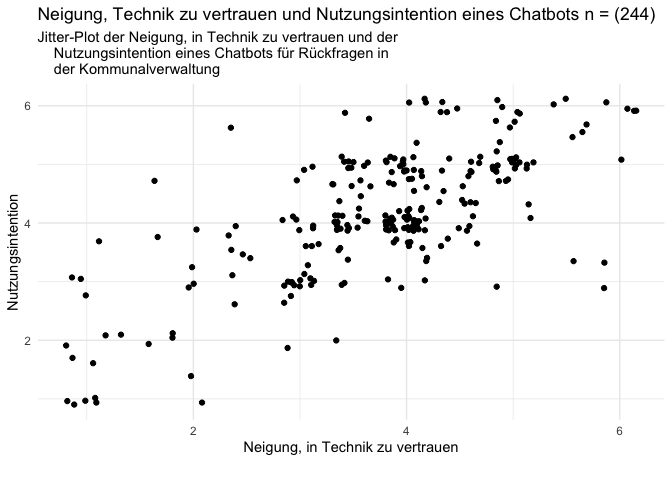
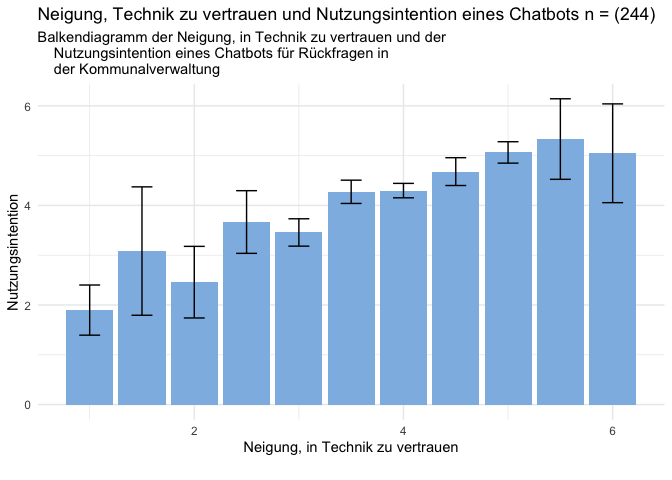
Diagramme

diff --git a/Readme.md b/Readme.md
@@ -87,6 +87,13 @@ höhere Nutzungsintention bei einem Chatbot für Rückfragen in der
 Kommunalverwaltung als Personen mit einer geringen Neigung, Technik zu
 vertrauen. (Unverbundener T-Test)
 
+    ## Warning: The following aesthetics were dropped during statistical transformation: ymin
+    ## and ymax.
+    ## ℹ This can happen when ggplot fails to infer the correct grouping structure in
+    ##   the data.
+    ## ℹ Did you forget to specify a `group` aesthetic or to convert a numerical
+    ##   variable into a factor?
+
 ![](Readme_files/figure-markdown_strict/unnamed-chunk-11-1.png)
 
 *H7* Die Nutzungsintention von BürgerInnen bei einem Chatbot für
@@ -94,6 +101,13 @@ Rückfragen in der Kommunalverwaltung unterscheidet sich von der
 Nutzungsintention von BürgerInnen bei einem Chatbot für die
 Formularausfüllung in der Kommunalverwaltung. \[Within-subject-design
 (Verbundener T- Test)\]
+
+    ## Warning: The following aesthetics were dropped during statistical transformation: ymin
+    ## and ymax.
+    ## ℹ This can happen when ggplot fails to infer the correct grouping structure in
+    ##   the data.
+    ## ℹ Did you forget to specify a `group` aesthetic or to convert a numerical
+    ##   variable into a factor?
 
 ![](Readme_files/figure-markdown_strict/unnamed-chunk-13-1.png)
 
@@ -103,12 +117,33 @@ Formularausfüllung in der Kommunalverwaltung. \[Within-subject-design
 Vertrauen von Bürger\*innen in einen KI-gestützten Dienst für
 Gebührenbescheide in der Kommunalverwaltung. (Einfaktorielle MANOVA)
 
-![](Readme_files/figure-markdown_strict/unnamed-chunk-15-1.png)
-![](Readme_files/figure-markdown_strict/unnamed-chunk-16-1.png)
+    ## 
+    ##  MANCOVA
+    ## 
+    ##  Multivariate Tests                                                                     
+    ##  ────────────────────────────────────────────────────────────────────────────────────── 
+    ##                                    value         F            df1    df2    p           
+    ##  ────────────────────────────────────────────────────────────────────────────────────── 
+    ##    Gender    Pillai's Trace        0.02428113    0.9626985      6    470    0.4499818   
+    ##              Wilks' Lambda          0.9757592    0.9629343      6    468    0.4498240   
+    ##              Hotelling's Trace     0.02480171    0.9631332      6    466    0.4496917   
+    ##              Roy's Largest Root    0.02300582     1.802123      3    235    0.1474812   
+    ##  ────────────────────────────────────────────────────────────────────────────────────── 
+    ## 
+    ## 
+    ##  Univariate Tests                                                                                      
+    ##  ───────────────────────────────────────────────────────────────────────────────────────────────────── 
+    ##                 Dependent Variable    Sum of Squares    df     Mean Square    F            p           
+    ##  ───────────────────────────────────────────────────────────────────────────────────────────────────── 
+    ##    Gender       BI_A                        5.799178      3       1.933059    1.8009735    0.1476956   
+    ##                 TIA_A                       3.465029      3       1.155010    0.8465403    0.4696509   
+    ##    Residuals    BI_A                      252.235225    235       1.073341                             
+    ##                 TIA_A                     320.631206    235       1.364388                             
+    ##  ─────────────────────────────────────────────────────────────────────────────────────────────────────
 
 *Diagramm Alterverteilung*
 
     ## Warning: Removed 5 rows containing non-finite outside the scale range
     ## (`stat_bin()`).
 
-![](Readme_files/figure-markdown_strict/unnamed-chunk-17-1.png)
+![](Readme_files/figure-markdown_strict/unnamed-chunk-15-1.png)
